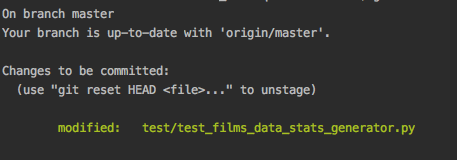
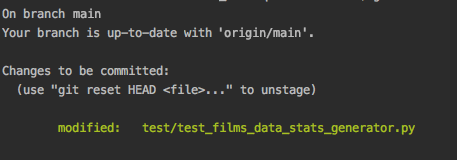
Replaced mention of master in images with main

Changed region(s): [[0.4595, 0.1562, 0.7352, 0.25], [0.1532, 0.0625, 0.2451, 0.125]]

diff --git a/docs/pushingChanges.md b/docs/pushingChanges.md
@@ -43,4 +43,4 @@ You can then view the result of the build directly in GitHub:
 
 **Note** you can also build and test your solution locally. Your repo's `README` and `.github/workflows/*.yml` file will contain the commands that you need to execute to run your solution locally.
 
-Once you have pushed your first commit to `main`, you will be able to <a href="#submittingSolution.md">submit your solution</a>.
+Once you have pushed your first commit to the `main` branch, you will be able to <a href="#submittingSolution.md">submit your solution</a>.

diff --git a/docs/cloningRepo.md b/docs/cloningRepo.md
@@ -5,7 +5,7 @@ Once you follow the link to your repo on `GitHub`, you will see a screen similar
 <figure>
   <figcaption style="font-style: italic; font-weight: bold">GitHub Repository:</figcaption>
   </br>
-  <img style="max-width: 70%;" src="candidateRepo.png" alt="GitHub Repository"/>
+  <img style="max-width: 90%;" src="candidateRepo.png" alt="GitHub Repository"/>
 </figure>
 
 <br>
